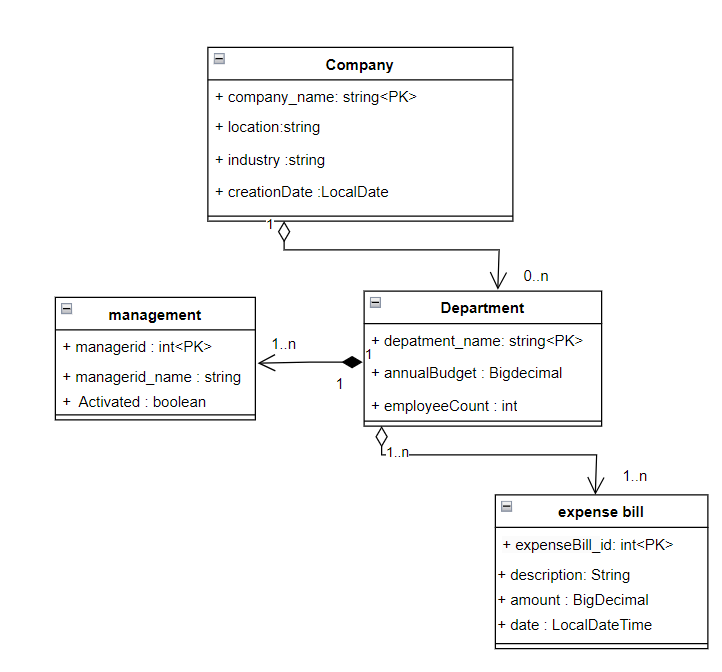
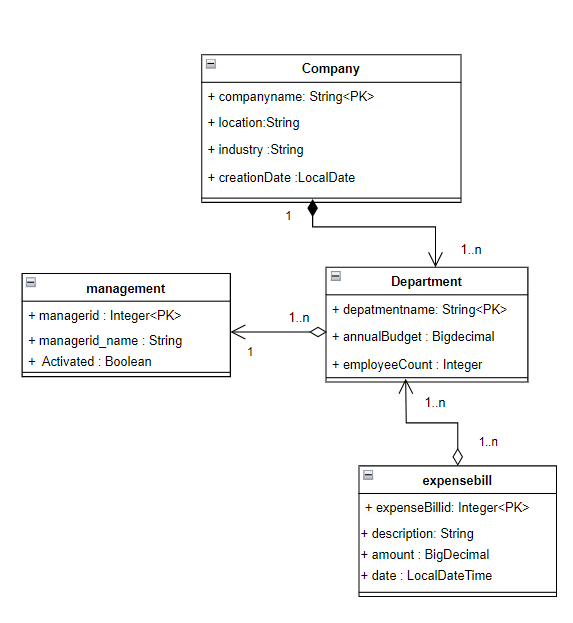
Re-design Model issue #831

Changed region(s): [[0.0297, 0.061, 1.0, 0.9759]]

diff --git a/src/main/java/es/upm/miw/apaw_practice/domain/models/company/Department.java b/src/main/java/es/upm/miw/apaw_practice/domain/models/company/Department.java
@@ -3,32 +3,30 @@ import java.math.BigDecimal;
 import java.util.List;
 
 public class Department {
-    private String department_name;// Primary Key
+    private String departmentname;// Primary Key
     private BigDecimal annualBudget;
     private int employeeCount;
     private Company company;
-    private List<ExpenseBill> expenseBills;
-    private List<Management> management;
+    private Management management;
 
     public Department() {
         //empty for framework
     }
 
-    public Department(String department_name, BigDecimal annualBudget, int employeeCount, Company company) {
-        this.department_name = department_name;
+    public Department(String departmentname, BigDecimal annualBudget, int employeeCount, Company company,Management management) {
+        this.departmentname = departmentname;
         this.annualBudget = annualBudget;
         this.employeeCount = employeeCount;
         this.company = company;
-
-
+        this.management = management;
     }
 
-    public String getDepartment_name() {
-        return department_name;
+    public String getDepartmentname() {
+        return departmentname;
     }
 
-    public void setDepartment_name(String department_name) {
-        this.department_name = department_name;
+    public void setDepartmentname(String departmentname) {
+        this.departmentname = departmentname;
     }
 
     public BigDecimal getAnnualBudget() {
@@ -56,22 +54,13 @@ public class Department {
     }
 
 
-    public List<Management> getManagement() {
+    public Management getManagement() {
         return management;
     }
 
-    public void setManagement(List<Management> management) {
+    public void setManagement(Management management) {
         this.management = management;
     }
-
-    public List<ExpenseBill> getExpenseBills() {
-        return expenseBills;
-    }
-
-    public void setExpenseBills(List<ExpenseBill> expenseBills) {
-        this.expenseBills = expenseBills;
-    }
-
 
 }
 

diff --git a/src/main/java/es/upm/miw/apaw_practice/domain/models/company/Company.java b/src/main/java/es/upm/miw/apaw_practice/domain/models/company/Company.java
@@ -4,7 +4,7 @@ import java.time.LocalDate;
 import java.util.List;
 
 public class Company {
-    private String company_name;// Primary Key
+    private String companyname;// Primary Key
     private String location;
     private String industry;
     private LocalDate creationDate;
@@ -14,19 +14,19 @@ public class Company {
         //empty for framework
     }
 
-    public Company(String company_name, String location, String industry, LocalDate creationDate) {
-        this.company_name = company_name;
+    public Company(String companyname, String location, String industry, LocalDate creationDate) {
+        this.companyname = companyname;
         this.location = location;
         this.industry = industry;
         this.creationDate = creationDate;
     }
 
-    public String getCompany_name() {
-        return company_name;
+    public String getCompanyname() {
+        return companyname;
     }
 
-    public void setCompany_name(String company_name) {
-        this.company_name = company_name;
+    public void setCompanyname(String companyname) {
+        this.companyname = companyname;
     }
 
     public String getLocation() {

diff --git a/src/main/java/es/upm/miw/apaw_practice/domain/models/company/ExpenseBill.java b/src/main/java/es/upm/miw/apaw_practice/domain/models/company/ExpenseBill.java
@@ -2,12 +2,14 @@ package es.upm.miw.apaw_practice.domain.models.company;
 
 import java.math.BigDecimal;
 import java.time.LocalDateTime;
+import java.util.List;
 
 public class ExpenseBill {
     private int expenseBill_id;// Primary Key
     private String description;
     private BigDecimal amount;
     private LocalDateTime date;
+    private List<Department> departments;
 
 
     public ExpenseBill() {
@@ -51,6 +53,14 @@ public class ExpenseBill {
 
     public void setDate(LocalDateTime date) {
         this.date = date;
+    }
+
+    public List<Department> getDepartments() {
+        return departments;
+    }
+
+    public void setDepartments(List<Department> departments) {
+        this.departments = departments;
     }
 
 
